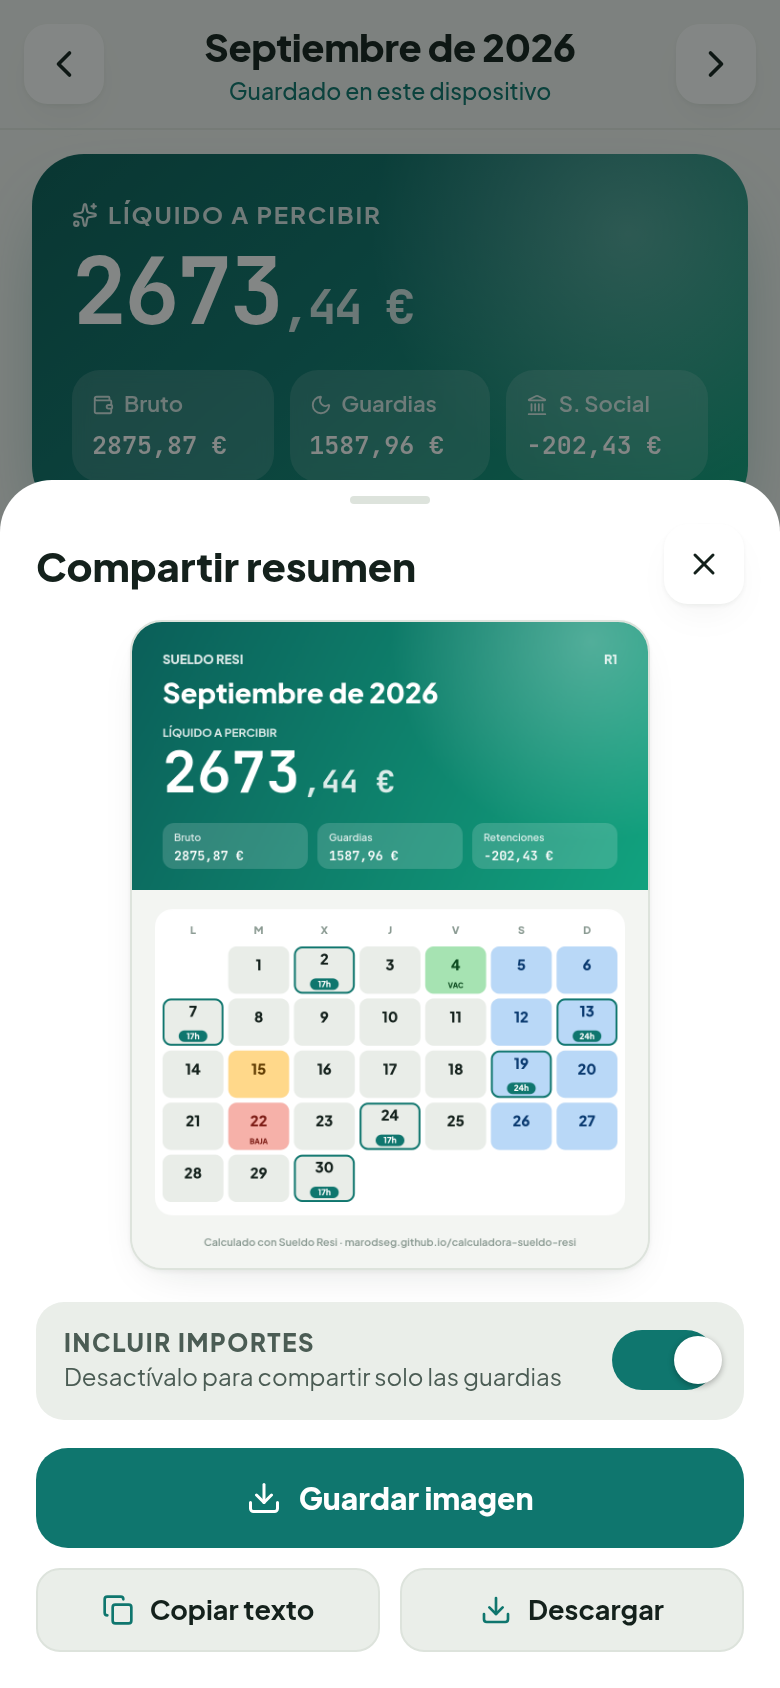
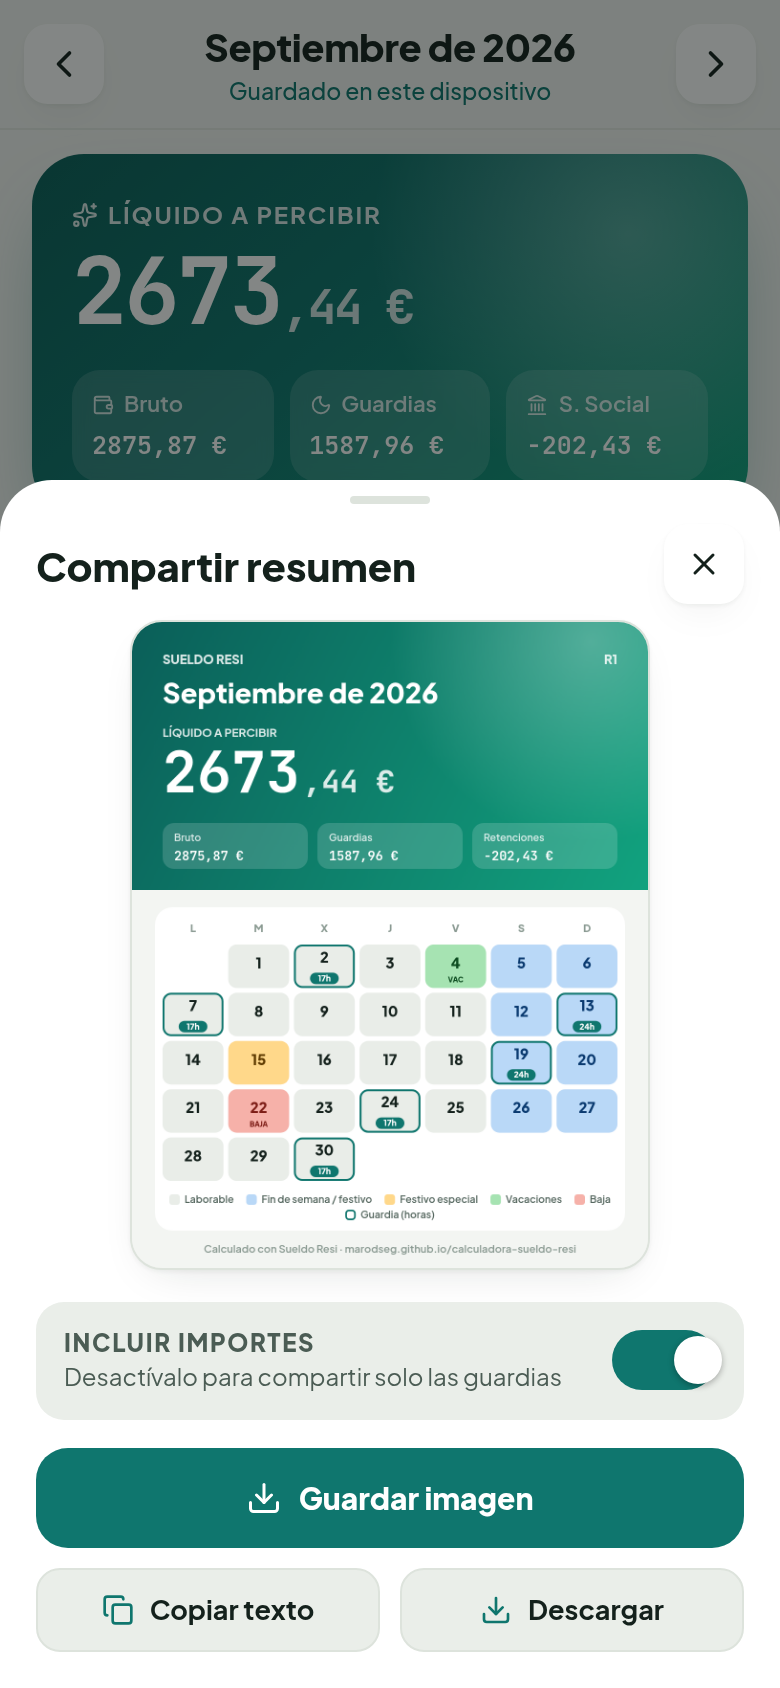
Leyenda en la imagen para compartir
Muestra los tipos de día usados en el mes, las guardias y los festivos para que
quien recibe la imagen sepa qué significa cada color.

Changed region(s): [[0.2154, 0.5545, 0.8, 0.7393]]

diff --git a/src/lib/share.ts b/src/lib/share.ts
@@ -1,6 +1,6 @@
 import { fmtEur, fmtNum, monthLabel, type Totals } from "./calc";
 import { DAY_TYPE_LABEL } from "./rates";
-import type { DayView, MonthConfig } from "./types";
+import type { DayType, DayView, MonthConfig } from "./types";
 
 export interface ShareInput {
   month: string;
@@ -144,8 +144,9 @@ function drawHero(ctx: CanvasRenderingContext2D, input: ShareInput, showAmounts:
 
 function drawCalendar(ctx: CanvasRenderingContext2D, input: ShareInput) {
   const { days } = input;
-  const top = 600;
-  const cardH = 640;
+  const top = 596;
+  const cardH = 676;
+  const legendH = 74; // hueco para la leyenda al pie de la tarjeta
   ctx.fillStyle = C.card;
   roundRect(ctx, PAD - 16, top, W - (PAD - 16) * 2, cardH, 36);
   ctx.fill();
@@ -158,7 +159,7 @@ function drawCalendar(ctx: CanvasRenderingContext2D, input: ShareInput) {
     (new Date(input.month.split("-").map(Number)[0], Number(input.month.split("-")[1]) - 1, 1).getDay() + 6) % 7;
   const rows = Math.ceil((offset + days.length) / 7);
   // Las celdas se ajustan a la altura de la tarjeta: más grandes en meses de 5 filas.
-  const ch = Math.min(112, (cardH - 78 - 28 - (rows - 1) * gap) / rows);
+  const ch = Math.min(112, (cardH - 78 - legendH - 30 - (rows - 1) * gap) / rows);
 
   ctx.textAlign = "center";
   ctx.fillStyle = C.ink3;
@@ -201,6 +202,101 @@ function drawCalendar(ctx: CanvasRenderingContext2D, input: ShareInput) {
       ctx.fillText(d.type === "vac" ? "VAC" : "BAJA", x + cw / 2, y + ch - 12);
     }
   });
+  drawLegend(ctx, days, top, cardH);
+}
+
+const TYPE_LEGEND: Record<DayType, string> = {
+  lab: "Laborable",
+  sdf: "Fin de semana / festivo",
+  esp: "Festivo especial",
+  vac: "Vacaciones",
+  baja: "Baja",
+};
+
+interface LegendItem {
+  label: string;
+  swatch: (ctx: CanvasRenderingContext2D, x: number, y: number) => void;
+}
+
+const SWATCH = 22;
+
+/** Leyenda de lo que aparece en el mes: solo los tipos de día usados, las guardias y los festivos. */
+function legendItems(days: DayView[]): LegendItem[] {
+  const items: LegendItem[] = [];
+  const present = new Set(days.map((d) => d.type));
+  for (const type of ["lab", "sdf", "esp", "vac", "baja"] as DayType[]) {
+    if (!present.has(type)) continue;
+    items.push({
+      label: TYPE_LEGEND[type],
+      swatch: (ctx, x, y) => {
+        ctx.fillStyle = C.cell[type];
+        roundRect(ctx, x, y, SWATCH, SWATCH, 6);
+        ctx.fill();
+      },
+    });
+  }
+  if (days.some((d) => d.guardia)) {
+    items.push({
+      label: "Guardia (horas)",
+      swatch: (ctx, x, y) => {
+        ctx.strokeStyle = C.brand;
+        ctx.lineWidth = 3.5;
+        roundRect(ctx, x + 1.75, y + 1.75, SWATCH - 3.5, SWATCH - 3.5, 6);
+        ctx.stroke();
+      },
+    });
+  }
+  if (days.some((d) => d.holiday)) {
+    items.push({
+      label: "Festivo",
+      swatch: (ctx, x, y) => {
+        ctx.fillStyle = C.holiday;
+        ctx.beginPath();
+        ctx.arc(x + SWATCH / 2, y + SWATCH / 2, 6, 0, Math.PI * 2);
+        ctx.fill();
+      },
+    });
+  }
+  return items;
+}
+
+function drawLegend(ctx: CanvasRenderingContext2D, days: DayView[], top: number, cardH: number) {
+  const items = legendItems(days);
+  ctx.font = `600 21px ${SANS}`;
+  ctx.textAlign = "left";
+  ctx.textBaseline = "alphabetic";
+
+  const gapX = 26;
+  const labelGap = 10;
+  const widths = items.map((it) => SWATCH + labelGap + ctx.measureText(it.label).width);
+  const maxW = W - PAD * 2;
+
+  // Reparte los elementos en líneas que quepan en el ancho disponible.
+  const lines: number[][] = [[]];
+  let used = 0;
+  widths.forEach((w, i) => {
+    if (used > 0 && used + gapX + w > maxW) {
+      lines.push([]);
+      used = 0;
+    }
+    lines[lines.length - 1].push(i);
+    used += (used > 0 ? gapX : 0) + w;
+  });
+
+  const lineH = 32;
+  const blockH = lines.length * lineH;
+  let y = top + cardH - 14 - blockH;
+  for (const line of lines) {
+    const total = line.reduce((a, i) => a + widths[i], 0) + gapX * (line.length - 1);
+    let x = (W - total) / 2;
+    for (const i of line) {
+      items[i].swatch(ctx, x, y + 2);
+      ctx.fillStyle = C.ink2;
+      ctx.fillText(items[i].label, x + SWATCH + labelGap, y + 20);
+      x += widths[i] + gapX;
+    }
+    y += lineH;
+  }
 }
 
 /** Dibuja la tarjeta resumen del mes y la devuelve como PNG. */
@@ -220,7 +316,7 @@ export async function renderShareImage(input: ShareInput, showAmounts: boolean):
   ctx.textAlign = "center";
   ctx.fillStyle = C.ink3;
   ctx.font = `600 22px ${SANS}`;
-  ctx.fillText("Calculado con Sueldo Resi · marodseg.github.io/calculadora-sueldo-resi", W / 2, H - 46);
+  ctx.fillText("Calculado con Sueldo Resi · marodseg.github.io/calculadora-sueldo-resi", W / 2, H - 32);
 
   return new Promise((resolve, reject) =>
     canvas.toBlob((b) => (b ? resolve(b) : reject(new Error("No se pudo generar la imagen"))), "image/png"),
